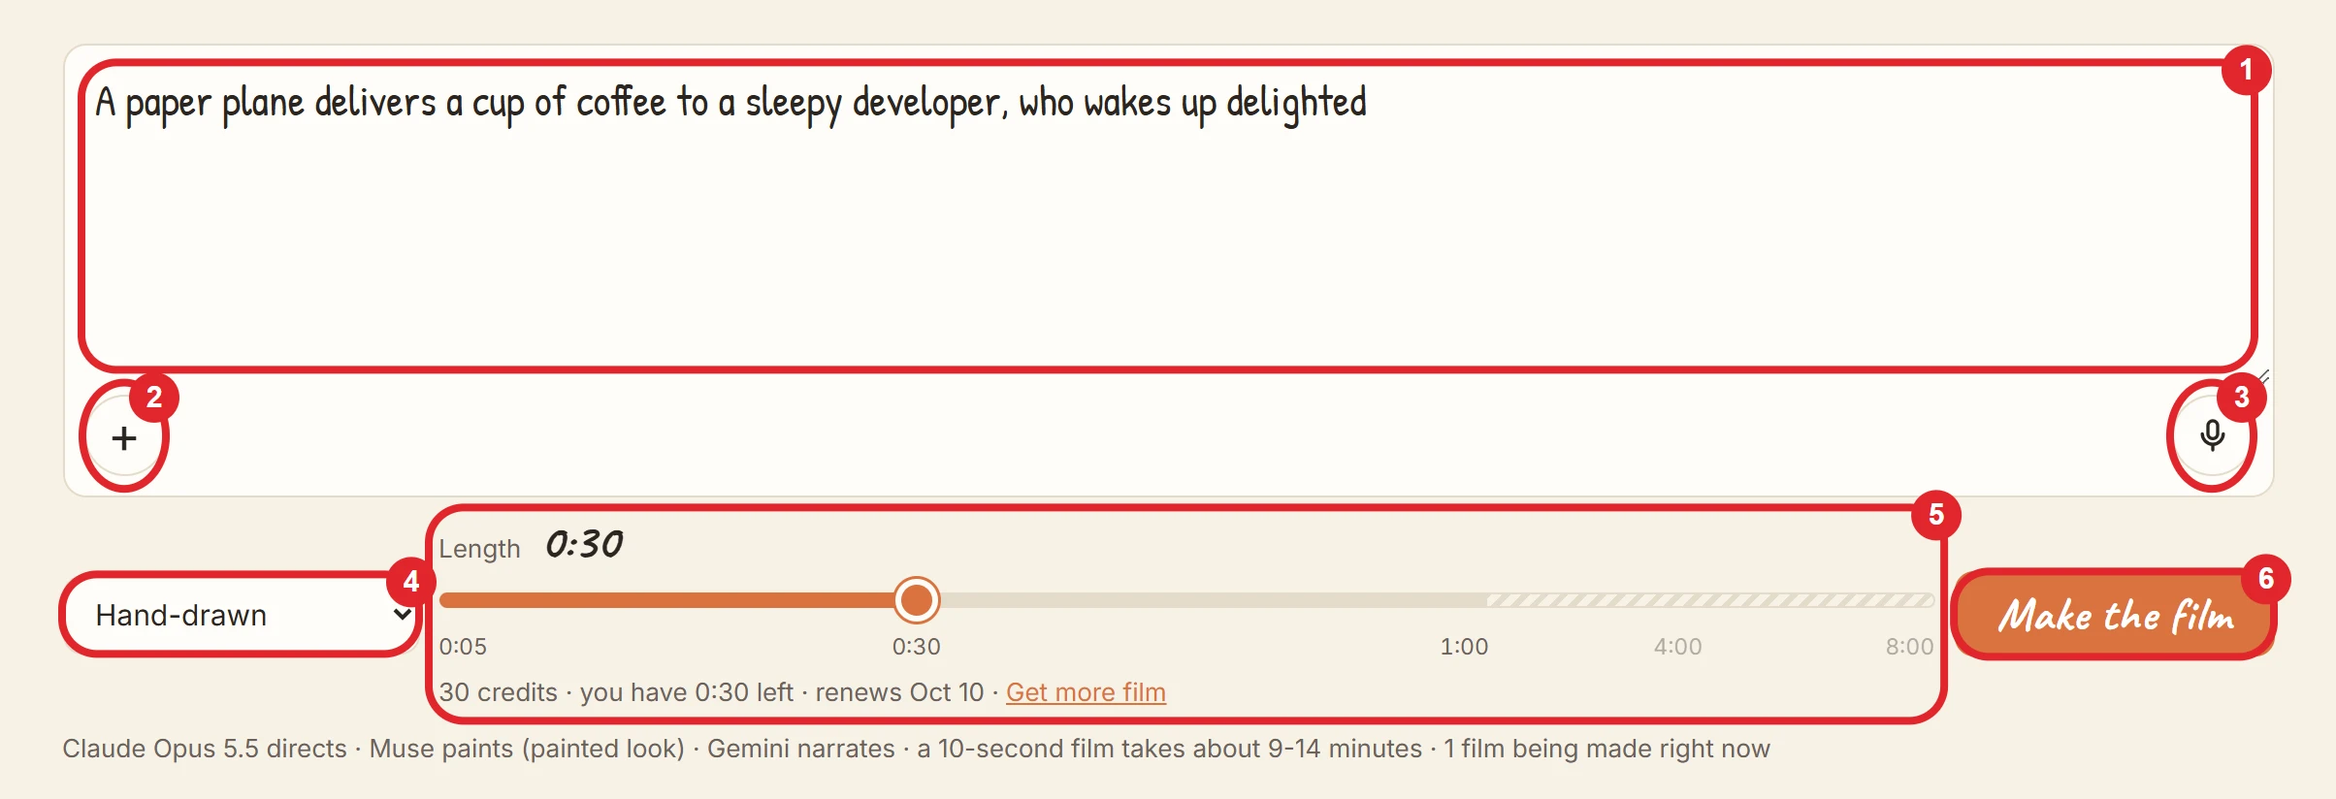
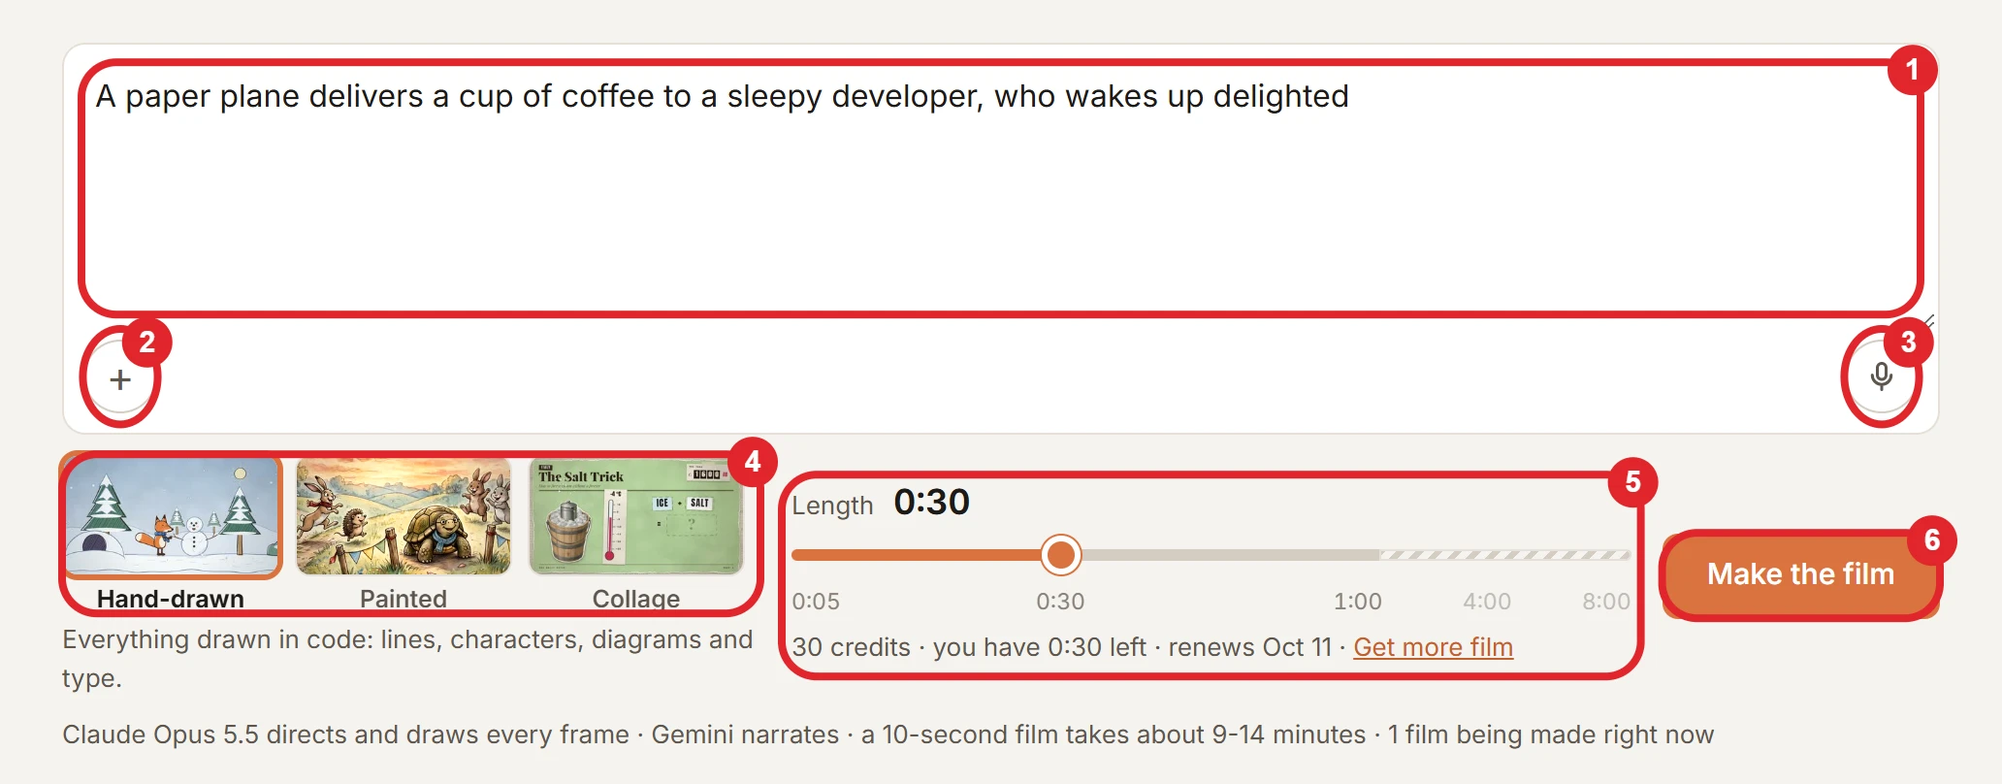
Claude video guide: eight new films, the collage look, and the punchy line
The examples were films we no longer lead with (Marisol's painted take, Turing Complete,
queensgame, Clamly, Dell vs HP, the fuel cell, the lever, Pip). Now eight films across
all three looks: The Box, taxes, Thatcher's Wine, Apollo 13, AI agents, Instafill on
GPT-6 Sol, the last penalty, and an 8-minute film on bike brands. 'Two looks' becomes
three (collage is live on kitcut.ai), and every place that said drawn-or-painted, the
models FAQ and the composer screenshot follow. New share card (og-claude-video-2.jpg,
source design/og-claude-video.html) because X caches by URL.

Changed region(s): [[0.0, 0.0619, 0.9922, 0.9592]]

diff --git a/src/lib/blog.ts b/src/lib/blog.ts
@@ -153,73 +153,75 @@ function kitcutFilm(id: string, film: Omit<BlogVideo, "src" | "pageUrl">): BlogV
 }
 
 const CLAUDE_VIDEO_FILMS: BlogVideo[] = [
-  kitcutFilm("studio-20260928-102317-awn3zx", {
-    title: "Marisol - a restaurant opening ad",
+  kitcutFilm("studio-20260929-124153-46uy2s", {
+    title: "The Box - how the shipping container shrank the world",
     prompt:
-      "A 30-second ad for the opening of Marisol, a new seafood restaurant by the harbour: fish from the morning's boats, cooked over a wood fire, served at a long table…",
-    poster: `${GUIDE_IMG}/marisol-restaurant-ad.jpg`,
+      "A 2-minute explainer: how a plain steel box shrank the world - the shipping container. Who it is for: curious adults who like business history…",
+    poster: `${GUIDE_IMG}/shipping-container-history.jpg`,
+    duration: "PT2M",
+    meta: "2:00 · collage · made in 39 min",
+    uploadDate: "2026-09-29",
+  }),
+  kitcutFilm("studio-20260929-144139-4r5esx", {
+    title: "How taxes work in America",
+    prompt: "Explain how taxes work in america.",
+    poster: `${GUIDE_IMG}/how-taxes-work.jpg`,
     duration: "PT30S",
-    meta: "0:30 · painted · made in 9 min",
+    meta: "0:30 · collage · made in 14 min",
+    uploadDate: "2026-09-29",
+  }),
+  kitcutFilm("studio-20260928-110106-skiird", {
+    title: "Thatcher's Wine - a Champagne launch ad",
+    prompt:
+      "A 30-second launch ad for Thatcher's Wine, a wine shop: the Champagne of Emmanuel Brochet has just arrived. The audience is people who love wine and buy it from a good independent shop…",
+    poster: `${GUIDE_IMG}/thatchers-wine-champagne.jpg`,
+    duration: "PT30S",
+    meta: "0:30 · hand-drawn, clean · made in 25 min",
     uploadDate: "2026-09-28",
   }),
-  kitcutFilm("studio-20260928-041445-2p46v3", {
-    title: "Turing Complete - a game launch ad",
-    prompt: 'Create a 10-second high-end advertisement for the Steam game "Turing Complete".',
-    poster: `${GUIDE_IMG}/turing-complete-launch-ad.jpg`,
-    duration: "PT10S",
-    meta: "0:10 · hand-drawn · made in 13 min",
+  kitcutFilm("studio-20260929-121012-w3vfyn", {
+    title: "Apollo 13 - a painted documentary",
+    prompt:
+      "A cinematic 2-minute-30 documentary: Apollo 13 - \"Houston, we've had a problem.\" How three astronauts 200,000 miles from Earth, and the engineers on the ground, turned a failed Moon landing into NASA's \"successful failure\"…",
+    poster: `${GUIDE_IMG}/apollo-13.jpg`,
+    duration: "PT2M30S",
+    meta: "2:30 · painted · made in 29 min",
+    uploadDate: "2026-09-29",
+  }),
+  kitcutFilm("studio-20260929-135720-qahfmu", {
+    title: "What is an AI agent? - an explainer",
+    prompt:
+      "A 90-second explainer: what is an AI agent? Who it is for: people who use ChatGPT or Claude for questions and keep hearing the word \"agent\"…",
+    poster: `${GUIDE_IMG}/what-is-an-ai-agent.jpg`,
+    duration: "PT1M30S",
+    meta: "1:30 · collage · made in 26 min",
+    uploadDate: "2026-09-29",
+  }),
+  kitcutFilm("studio-20260928-135513-pizula", {
+    title: "Instafill runs on GPT-6 Sol - a product update",
+    prompt:
+      "…we recently upgraded all users to gpt 6 Sol model as default model. We need a video about this that explains that it's smarter and faster…",
+    poster: `${GUIDE_IMG}/instafill-gpt6-sol.jpg`,
+    duration: "PT45S",
+    meta: "0:45 · hand-drawn, clean · made in 15 min",
     uploadDate: "2026-09-28",
   }),
-  kitcutFilm("studio-20260927-223145-5wo5i4", {
-    title: "queensgame.io - a product ad",
-    prompt:
-      "…Show queensgame.io as a modern, addictive online logic puzzle game. Focus on a polished puzzle board, queen placement…",
-    poster: `${GUIDE_IMG}/queensgame-product-ad.jpg`,
-    duration: "PT10S",
-    meta: "0:10 · hand-drawn, clean · made in 11 min",
-    uploadDate: "2026-09-27",
-  }),
-  kitcutFilm("studio-20260927-061617-q6t772", {
-    title: "Clamly - a brand values film",
-    prompt: "create something for https://clamly.app to show Clamly values",
-    poster: `${GUIDE_IMG}/clamly-brand-film.jpg`,
+  kitcutFilm("studio-20260929-220610-py7ko5", {
+    title: "The last penalty - a story",
+    prompt: "The last penalty of a cup final, from the goalkeeper's point of view",
+    poster: `${GUIDE_IMG}/last-penalty.jpg`,
     duration: "PT30S",
-    meta: "0:30 · hand-drawn · made in 15 min",
-    uploadDate: "2026-09-27",
+    meta: "0:30 · hand-drawn, crayon · made in 19 min",
+    uploadDate: "2026-09-29",
   }),
-  kitcutFilm("studio-20260927-171047-mgkibw", {
-    title: "Dell vs HP - an 8-minute business documentary",
+  kitcutFilm("studio-20260929-103129-i4d52n", {
+    title: "The start grid - 11 bike brands in 8 minutes",
     prompt:
-      'An 8-minute hand-drawn documentary explainer titled "Dell Went Private. HP Split in Two. AI Picked a Winner." Two PC giants hit the same wall, made opposite bets…',
-    poster: `${GUIDE_IMG}/dell-hp-documentary.jpg`,
+      "Create a video about major bike brands. Make it interesting, exciting, dramatic. Not boring. Make it fun to watch…",
+    poster: `${GUIDE_IMG}/xc-bike-brands.jpg`,
     duration: "PT8M",
-    meta: "8:00 · hand-drawn · made in 2 h 21 min",
-    uploadDate: "2026-09-27",
-  }),
-  kitcutFilm("studio-20260927-084459-7xaoci", {
-    title: "How a fuel cell works - a painted science film",
-    prompt:
-      "Create a visually stunning 30-second hand-painted scientific film explaining how a proton exchange membrane fuel cell works…",
-    poster: `${GUIDE_IMG}/fuel-cell-explainer.jpg`,
-    duration: "PT30S",
-    meta: "0:30 · painted · made in 16 min",
-    uploadDate: "2026-09-27",
-  }),
-  kitcutFilm("studio-20260927-033619-iucict", {
-    title: "How a lever lifts a car - a blueprint explainer",
-    prompt: "How a lever lets one person lift a car, drawn as a blueprint",
-    poster: `${GUIDE_IMG}/lever-blueprint-explainer.jpg`,
-    duration: "PT10S",
-    meta: "0:10 · hand-drawn, blueprint · made in 12 min",
-    uploadDate: "2026-09-27",
-  }),
-  kitcutFilm("studio-20260926-195810-6kj2uw", {
-    title: "Pip the fox sees snow - a story",
-    prompt: "Pip the fox sees snow for the first time.",
-    poster: `${GUIDE_IMG}/pip-fox-snow.jpg`,
-    duration: "PT20S",
-    meta: "0:20 · hand-drawn, crayon · made in 14 min",
-    uploadDate: "2026-09-26",
+    meta: "8:00 · collage · made in 1 h 44 min",
+    uploadDate: "2026-09-29",
   }),
 ];
 
@@ -228,13 +230,13 @@ const CLAUDE_VIDEO_FILMS: BlogVideo[] = [
 const CLAUDE_VIDEO_GUIDE: BlogPost = {
   slug: "claude-video",
   title: "Claude Video: Make Videos with Claude Opus 5.5 (2026 Guide)",
-  h1: "Claude video: how to make a finished film with Claude Opus 5.5",
+  h1: "Claude makes videos now: how to make a finished film with Claude Opus 5.5",
   metaDescription:
-    "Can Claude make videos? With KitCut, Claude Opus 5.5 writes, draws, narrates and scores a 1080p film from one sentence. Real examples, steps and prices.",
+    "Can Claude make videos? Yes: with KitCut, Claude Opus 5.5 writes, animates, narrates and scores a finished 1080p film from your idea. Eight real films, steps and prices.",
   summary:
-    "Claude does not export a video file on its own - but with KitCut, Claude Opus 5.5 turns one sentence into a narrated, scored 1080p film. Eight real examples, how it works, how to use it from inside Claude, and what it costs.",
+    "Claude makes videos now. Type an idea into KitCut and Claude Opus 5.5 makes the whole film: script, animation, voice-over and music, hand-drawn, painted or collage. Eight real films, how it works, how to use it from inside Claude, and what it costs.",
   publishedAt: "2026-09-28T18:00:00Z",
-  updatedAt: "2026-09-28T18:00:00Z",
+  updatedAt: "2026-09-30T17:00:00Z",
   readingTime: "11 min read",
   category: "Claude Video",
   tags: ["Claude video", "Opus 5.5", "KitCut", "AI video", "Claude animation", "MCP"],
@@ -261,14 +263,14 @@ const CLAUDE_VIDEO_GUIDE: BlogPost = {
     "kitcut",
   ],
   imageAlt: "Claude video: films made with Claude Opus 5.5 on KitCut",
-  image: `${GUIDE_IMG}/og-claude-video.jpg`,
+  image: `${GUIDE_IMG}/og-claude-video-2.jpg`,
   featured: true,
   badge: "Hands-on guide",
   takeaways: [
     {
       mark: "yes",
       title: "Claude can make videos with KitCut:",
-      text: "type one sentence; Claude Opus 5.5 writes, draws, animates, narrates and scores the film, and KitCut renders a 1920x1080 MP4.",
+      text: "type an idea; Claude Opus 5.5 writes, animates, narrates and scores the whole film, and KitCut renders a 1920x1080 MP4.",
     },
     {
       mark: "yes",
@@ -283,13 +285,13 @@ const CLAUDE_VIDEO_GUIDE: BlogPost = {
     {
       mark: "no",
       title: "Not a video generator:",
-      text: "no photoreal footage or real people moving - films are drawn or painted animation, in 16:9.",
+      text: "no photoreal footage or real people moving - films are hand-drawn, painted or paper-collage animation, in 16:9.",
     },
   ],
   faqHeading: "Claude video: frequently asked questions",
   cta: {
     title: "Make your first Claude video",
-    text: "Type one sentence and watch Claude Opus 5.5 make the film. 30 seconds of film free every month, no card needed.",
+    text: "Type an idea and watch Claude Opus 5.5 make the film. 30 seconds free every month.",
     primary: { href: kitcutUrl("blog"), label: "Make a free Claude video →" },
     secondary: { href: "/kitcut-referral-code", label: "Get 2 extra minutes" },
   },
@@ -297,26 +299,16 @@ const CLAUDE_VIDEO_GUIDE: BlogPost = {
     {
       id: "can-claude-make-videos",
       h2: "Can Claude make videos?",
-      lead: "Yes, with the right tool around it. On its own, Claude writes text and code; it does not hand you an MP4. KitCut is the missing half: it gives Claude Opus 5.5 a drawing engine, a narrator, an orchestra and a renderer, so one sentence comes back as a finished, narrated film.",
+      lead: "Yes. On its own Claude writes text and code, not MP4s. KitCut is the missing half: it gives Claude Opus 5.5 a drawing engine, a narrator, an orchestra and a renderer, so an idea comes back as a finished film - script, animation, voice-over and music.",
       body: [
         "That is a different thing from an AI video generator. Sora, Veo or Runway turn a prompt into moving pixels a few seconds at a time. On KitCut, Claude writes the whole film as a program - every drawing, camera move, word on screen and music cue - and KitCut renders it. So a film can run from 5 seconds to 8 minutes as one planned piece, with the picture, the narration and the music timed to each other, word by word.",
         "A disclosure before the praise: we built KitCut, so read this as the maker's guide. Everything below is what the product does today, shown with real films made on it, and the limits are listed as plainly as the strengths. KitCut is an independent product built on Claude; it is not made or endorsed by Anthropic.",
       ],
-      images: [
-        {
-          src: `${GUIDE_IMG}/kitcut-home.jpg`,
-          alt: "The KitCut home page: 'Type an idea. Get a Claude video.', the idea box, the look, the length slider and the Make the film button",
-          caption: "kitcut.ai: every Claude video starts in the idea box. Pick a look and a length, and press Make the film.",
-          width: 1440,
-          height: 610,
-          label: "Screenshot",
-        },
-      ],
     },
     {
       id: "claude-video-examples",
-      h2: "Claude video examples: eight films, each from one prompt",
-      lead: "Every film below was made on KitCut from the prompt under it, and none was edited afterwards - KitCut has no edit step. Press play; the small kitcut.ai mark on some is the Free plan's.",
+      h2: "Claude video examples: eight films, three looks",
+      lead: "Every film below was made on KitCut from the prompt under it, and none was edited afterwards - KitCut has no edit step. Some prompts are one line, some a paragraph-long brief; both work. Press play; the small kitcut.ai mark on some is the Free plan's.",
       videos: CLAUDE_VIDEO_FILMS,
     },
     {
@@ -326,7 +318,7 @@ const CLAUDE_VIDEO_GUIDE: BlogPost = {
       steps: [
         "Open kitcut.ai and describe the film in the idea box: what it is about, who it is for, the tone, and anything it must say or show. One sentence is enough; up to 12,000 characters are allowed.",
         "Add pictures or voice notes if you have them - a logo, a product shot, a sketch or a spoken brief. Up to 6 pictures and 3 voice notes a film.",
-        "Pick a look (hand-drawn or painted) and a length, then press Make the film. You sign in the first time, and nothing you typed is lost.",
+        "Pick a look (hand-drawn, painted or collage) and a length, then press Make the film. You sign in the first time, and nothing you typed is lost.",
         "Watch it being made. The film's page shows what Claude is doing and the stills it is checking, then plays the finished film. A 30-second film takes about 16 to 24 minutes once its turn comes.",
       ],
       callout: {
@@ -337,10 +329,10 @@ const CLAUDE_VIDEO_GUIDE: BlogPost = {
       images: [
         {
           src: `${GUIDE_IMG}/kitcut-composer.webp`,
-          alt: "The KitCut idea box with numbered red circles: the idea text, the + button for pictures, the microphone for voice notes, the look, the length slider and Make the film",
+          alt: "The KitCut idea box with numbered red circles: the idea text, the + button for pictures, the microphone for voice notes, the three looks, the length slider and Make the film",
           caption: "The idea box: ① the idea, ② pictures, ③ voice notes, ④ the look, ⑤ the length and ⑥ Make the film.",
-          width: 2408,
-          height: 824,
+          width: 2064,
+          height: 808,
           label: "Screenshot",
         },
         {
@@ -381,7 +373,7 @@ const CLAUDE_VIDEO_GUIDE: BlogPost = {
           },
           {
             step: "Picture",
-            what: "Claude draws and animates every scene in code on KitCut's sketch engine - or, in the painted look, has the scenes painted and animates the paintings.",
+            what: "Claude draws and animates every scene in code on KitCut's sketch engine. In the painted look it has the scenes painted and animates the paintings; in the collage look it has each picture cut out and builds the pages round them.",
           },
           {
             step: "Review",
@@ -403,11 +395,12 @@ const CLAUDE_VIDEO_GUIDE: BlogPost = {
       ],
     },
     {
-      id: "two-looks",
-      h2: "Two looks: hand-drawn Claude animation or painted scenes",
+      id: "three-looks",
+      h2: "Three looks: hand-drawn, painted or collage",
       body: [
-        "Hand-drawn: Claude draws every frame in code. The default crayon style has lines that boil slightly from frame to frame, off-register fills and paper grain; the clean style is crisp editorial line art with flat fills. There are ten grounds, from paper and kraft to chalkboard and blueprint.",
-        "Painted: an image model paints the scenes from Claude's descriptions, and Claude animates them - camera moves across each painting, cross-fades on spoken words, and words drawn on top. Styles range from 1950s travel poster and ink wash to claymation and watercolour.",
+        "Hand-drawn: Claude draws every frame in code. The crayon style has lines that boil slightly from frame to frame and paper grain; the clean style is crisp editorial line art with flat fills, like the Thatcher's Wine and Instafill films above. There are ten grounds, from paper and kraft to chalkboard and blueprint.",
+        "Painted: an image model paints the scenes from Claude's descriptions, and Claude animates them - camera moves across each painting, cross-fades on spoken words, and words drawn on top. Styles range from 1950s travel poster and ink wash to claymation and cinematic photoreal, as in Apollo 13.",
+        "Collage: every picture is a cut-out with a white scissor edge, and Claude builds the pages round them in code - torn paper, print type, tape labels, rubber stamps, marker arrows - with everything shaking slightly like stop-motion. It is the newest look, and the one behind The Box, the taxes film and the bike brands.",
         "You pick the look; Claude picks everything inside it, and your idea can steer it in plain words.",
       ],
       images: [
@@ -431,6 +424,14 @@ const CLAUDE_VIDEO_GUIDE: BlogPost = {
           src: `${GUIDE_IMG}/kitcut-look-painted.webp`,
           alt: "A painted KitCut still: glowing particles over a dark painted landscape, with the word proton drawn on top by Claude",
           caption: "Painted: the scene is painted, the word on top is drawn.",
+          width: 1280,
+          height: 720,
+          label: "Still",
+        },
+        {
+          src: `${GUIDE_IMG}/kitcut-look-collage.webp`,
+          alt: "A collage KitCut still: a wooden ice-cream churn and a thermometer cut out of old engravings, pasted on green paper under the headline The Salt Trick, with tape labels reading ICE and SALT",
+          caption: "Collage: the pictures are cut-outs; the page, the type and the labels are built in code.",
           width: 1280,
           height: 720,
           label: "Still",
@@ -479,7 +480,7 @@ const CLAUDE_VIDEO_GUIDE: BlogPost = {
           { what: "Your logo", gen: "re-imagined by the model", kitcut: "the picture you attached, placed as it is" },
           { what: "The same character", gen: "drifts between clips", kitcut: "kept as code and reused in later films" },
           { what: "Narration and music", gen: "usually added with other tools", kitcut: "written, recorded and mixed with the film, subtitles included" },
-          { what: "Style", gen: "photoreal or painterly motion", kitcut: "hand-drawn animation, or painted scenes with camera moves" },
+          { what: "Style", gen: "photoreal or painterly motion", kitcut: "hand-drawn animation, painted scenes with camera moves, or paper collage" },
         ],
         caption: "Summarised from kitcut.ai/docs/compared.",
       },
@@ -492,11 +493,10 @@ const CLAUDE_VIDEO_GUIDE: BlogPost = {
       id: "what-to-make",
       h2: "What people make with Claude video",
       bullets: [
-        "Launch and product ads - a Steam game, a web puzzle game, a restaurant opening.",
-        "Explainers and lessons - a fuel cell, a lever, how bees make honey - where every label has to be right.",
-        "Brand films - a company's values in 30 seconds, from nothing but its web address.",
-        "Long-form business documentaries - up to 8 minutes on Pro, like the Dell vs HP film above.",
-        "Stories and series - Pip the fox came back for three films with the same scarf, look and voice.",
+        "Launch ads and product updates - a Champagne arriving at a wine shop, a software product moving to a new AI model.",
+        "Explainers - taxes, AI agents, the shipping container - where every number and label has to be right.",
+        "Documentaries up to 8 minutes on Pro - Apollo 13, eleven bike brands, a company's history.",
+        "Stories and series - a cup-final penalty through the keeper's eyes; Pip the fox came back for three films with the same scarf, look and voice.",
         "Versions in other languages - the narration follows the language of your idea; words on screen cover Latin and Cyrillic alphabets.",
       ],
       images: [
@@ -551,7 +551,7 @@ const CLAUDE_VIDEO_GUIDE: BlogPost = {
       id: "limits",
       h2: "What KitCut doesn't do (yet)",
       bullets: [
-        "No photorealistic motion or real people moving: films are drawn or painted animation.",
+        "No photorealistic motion or real people moving: films are hand-drawn, painted or collage animation.",
         "16:9 only for now - no vertical Shorts, Reels or TikToks.",
         "No editing a finished film: make a new one, and its characters, look, voice and music can come back.",
         "Instrumental music only - no songs or sung vocals.",
@@ -586,7 +586,7 @@ const CLAUDE_VIDEO_GUIDE: BlogPost = {
     },
     {
       q: "Which AI models make the film?",
-      a: "Claude Opus 5.5 does the direction, the script, every drawing and animation, the music and sound-effect scores, and the review of its own frames. Gemini's text-to-speech is the narrator, Meta's Muse paints the scenes of painted films, and Whisper times each spoken word. There is no video-generation model and no stock footage.",
+      a: "Claude Opus 5.5 does the direction, the script, every drawing and animation, the music and sound-effect scores, and the review of its own frames. Gemini's text-to-speech is the narrator, Meta's Muse paints the scenes of painted films, OpenAI's GPT Image paints the cut-outs of collage films, and Whisper times each spoken word. There is no video-generation model and no stock footage.",
     },
     {
       q: "Can I use Claude videos commercially?",

diff --git a/design/og-claude-video.html b/design/og-claude-video.html
@@ -1,0 +1,40 @@
+<!doctype html>
+<!-- The Claude video guide's social card (public/blog/claude-video/og-claude-video-2.jpg, 1200x630):
+     the headline beside four stills from the guide's own example films, one per look.
+     Regenerate after changing the words or the stills:
+       node ~/.claude/skills/screenshots/shoot.mjs --url file:///<repo>/design/og-claude-video.html \
+         --clip "#card" --out public/blog/claude-video/og-claude-video-<n>.jpg
+     and give the file a new name when it changes: X caches a card by its image URL. -->
+<html>
+<head>
+<meta charset="utf-8">
+<style>
+  html, body { margin: 0; }
+  #card { position: relative; width: 1200px; height: 630px; overflow: hidden; background: #1f1e1d;
+          font-family: "Segoe UI", system-ui, sans-serif; color: #faf9f5; }
+  .words { position: absolute; left: 56px; top: 84px; width: 470px; }
+  .h { font-size: 78px; font-weight: 800; line-height: 1.0; letter-spacing: -1px; }
+  .h em { font-style: normal; color: #d97757; }
+  .sub { margin-top: 22px; font-size: 28px; font-weight: 700; line-height: 1.2; }
+  .foot { position: absolute; left: 56px; bottom: 44px; font-size: 22px; color: #b8b3a8; }
+  .grid { position: absolute; left: 560px; top: 120px; display: grid;
+          grid-template-columns: 300px 300px; gap: 14px; }
+  .grid img { width: 300px; height: 169px; object-fit: cover; border-radius: 6px; display: block; }
+</style>
+</head>
+<body>
+<div id="card">
+  <div class="words">
+    <div class="h">Claude<br><em>makes videos</em><br>now.</div>
+    <div class="sub">8 real films, the steps and the prices</div>
+  </div>
+  <div class="grid">
+    <img src="../public/blog/claude-video/shipping-container-history.jpg">
+    <img src="../public/blog/claude-video/thatchers-wine-champagne.jpg">
+    <img src="../public/blog/claude-video/apollo-13.jpg">
+    <img src="../public/blog/claude-video/how-taxes-work.jpg">
+  </div>
+  <div class="foot">claudecoupons.com &middot; KitCut guide</div>
+</div>
+</body>
+</html>
